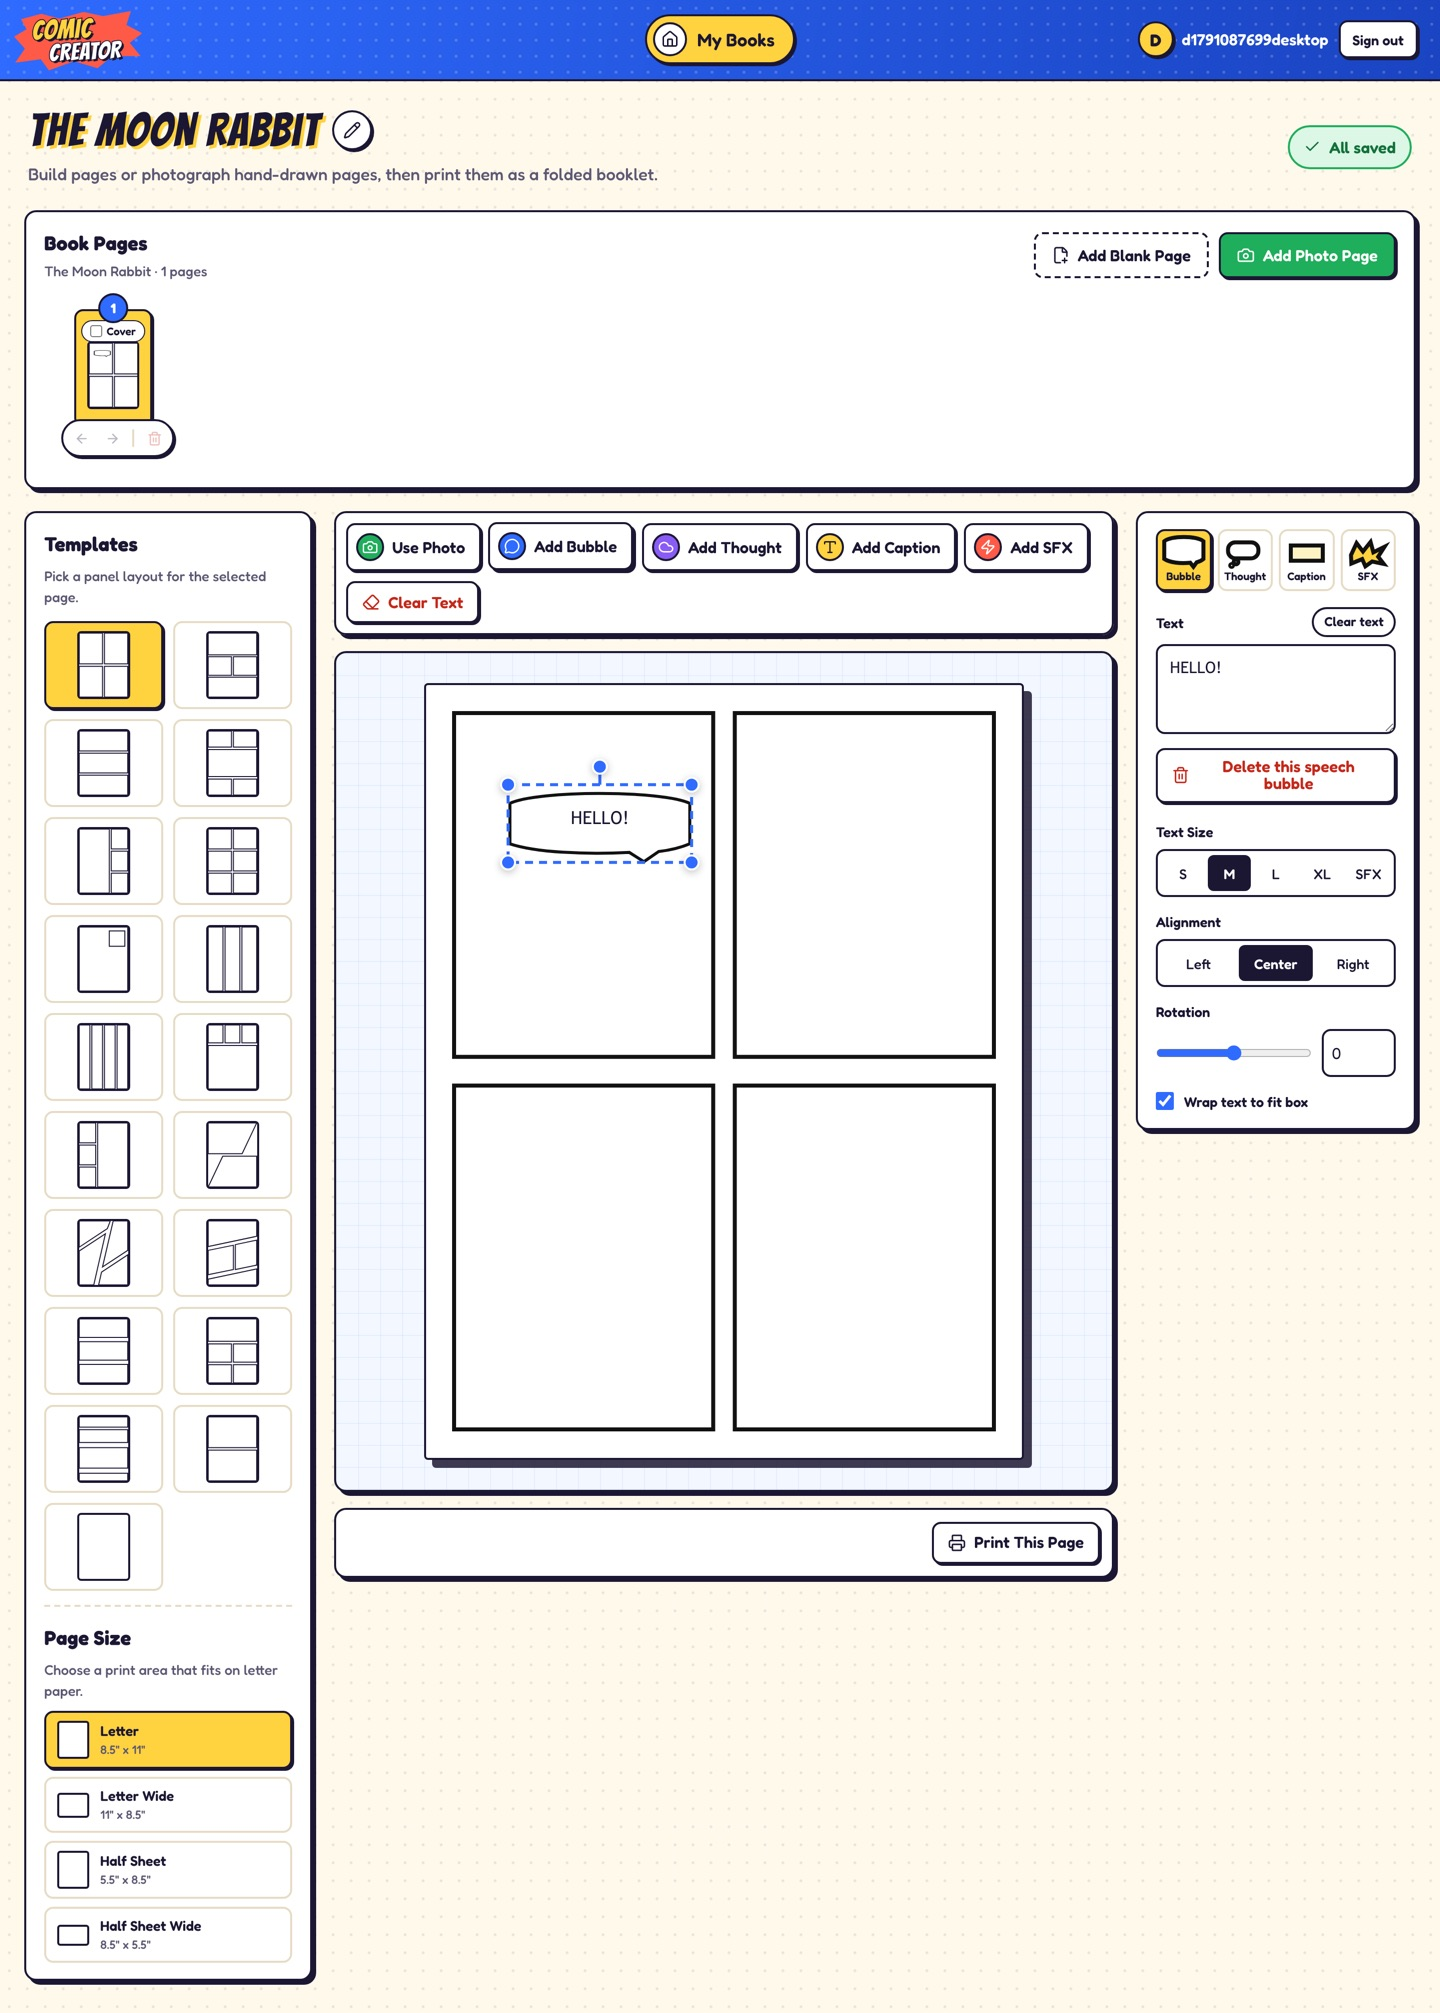
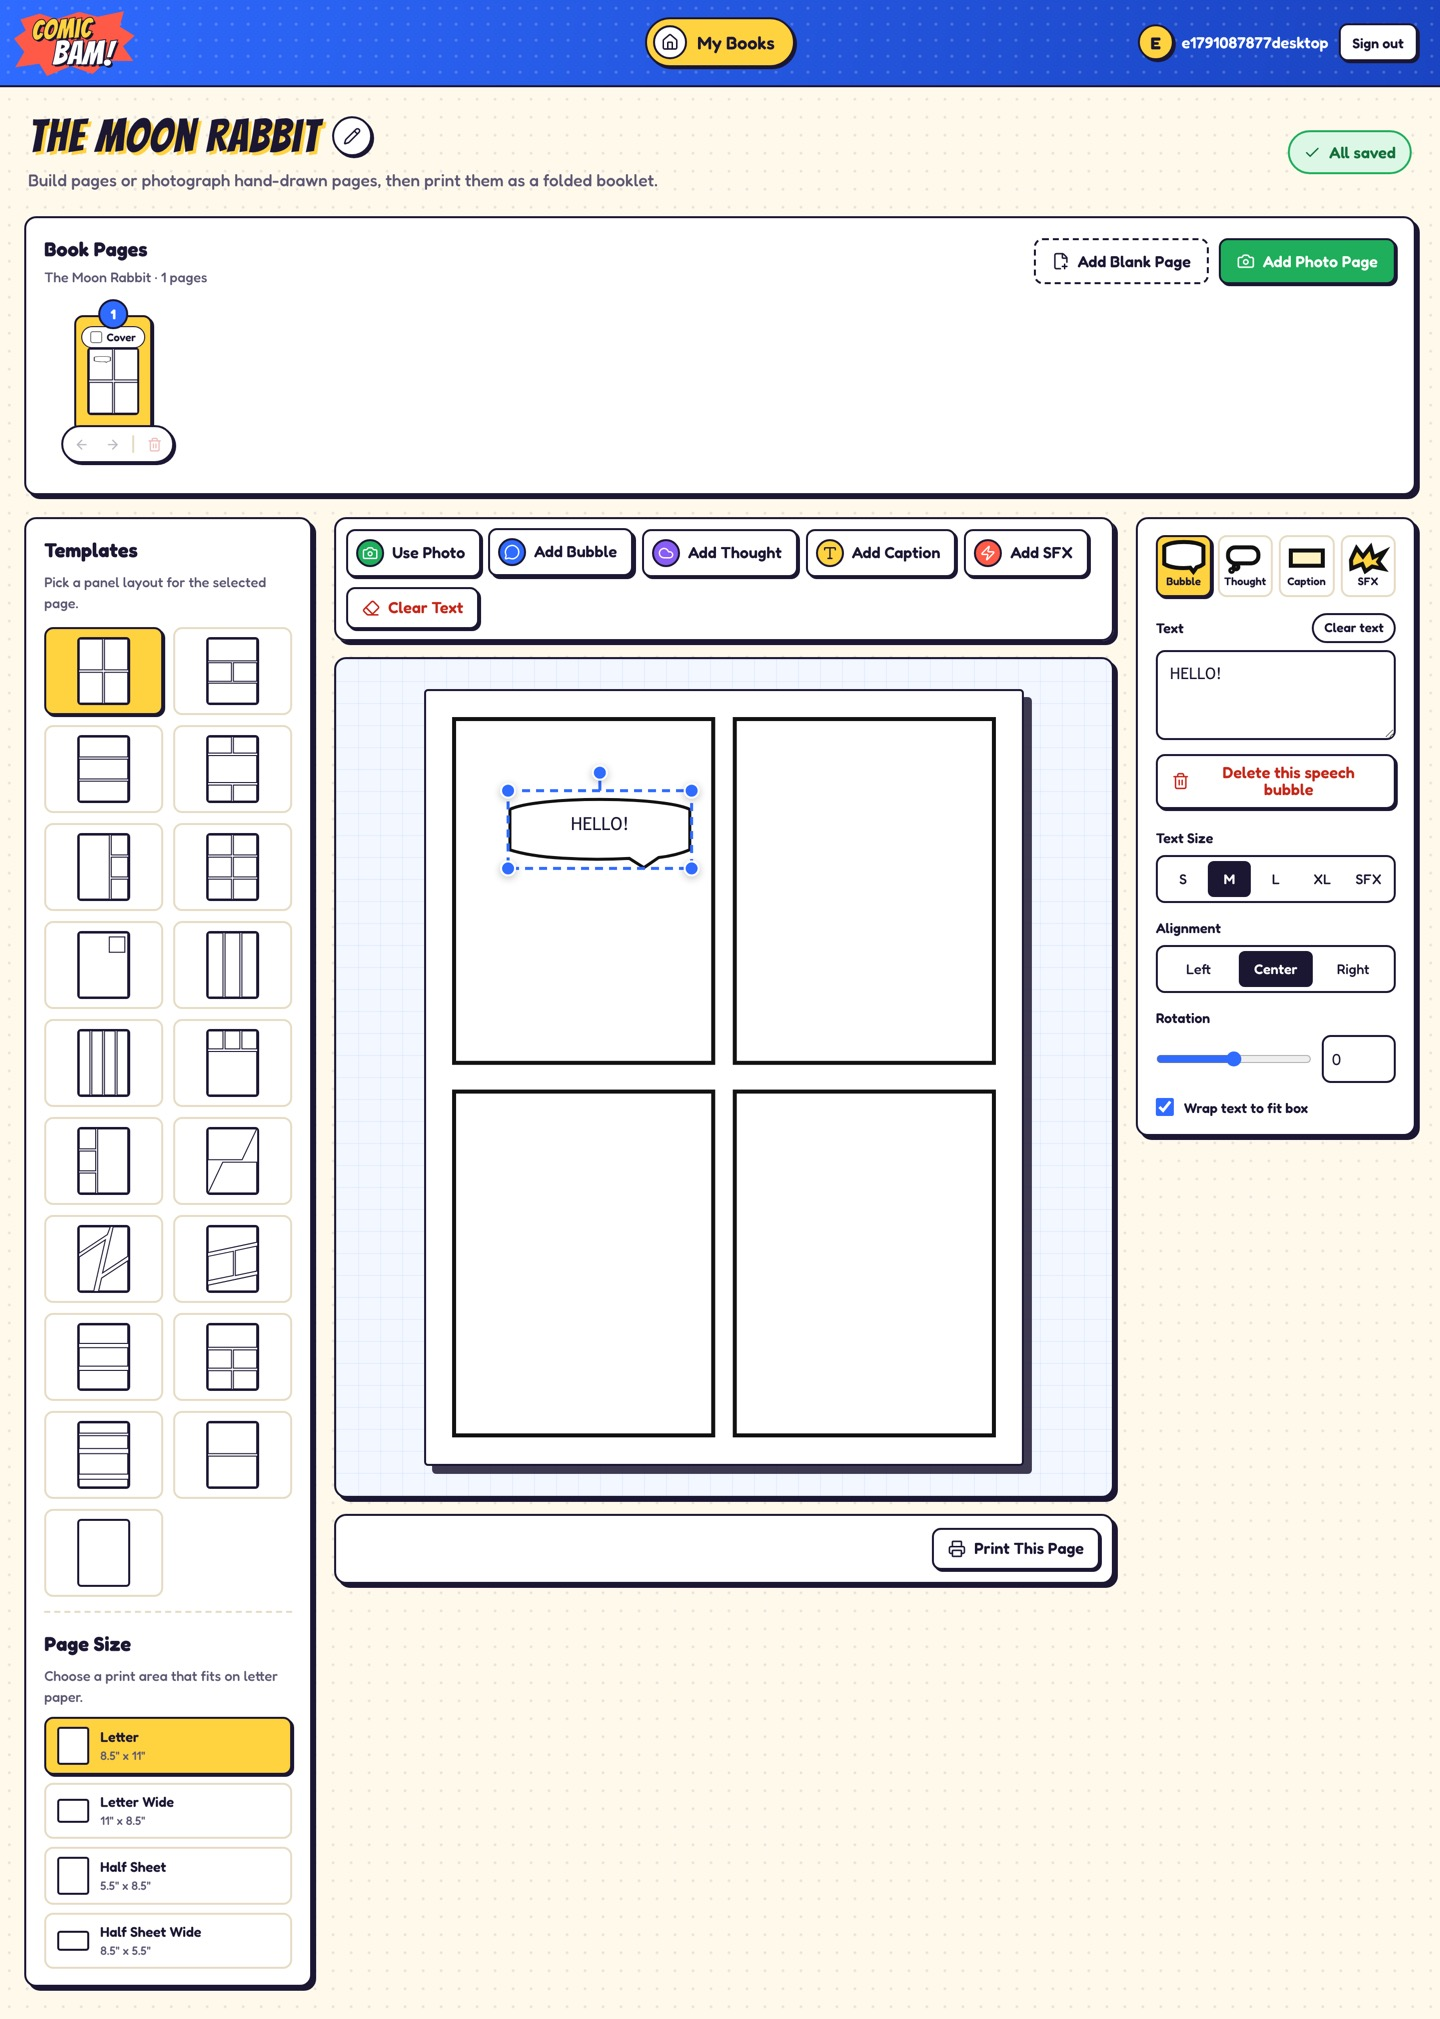
Rename site to ComicBam
Text uses ComicBam (matches comicbam domain); the burst logo stacks COMIC / BAM!.

diff --git a/app/src/components/landing/LandingPage.tsx b/app/src/components/landing/LandingPage.tsx
@@ -64,8 +64,8 @@ export function LandingPage() {
     <main class="comic-landing">
       <div class="landing-shell">
         <header class="landing-header">
-          <A href="/" class="comic-logo compact" aria-label="Comic Book Creator home">
-            <span>Comic</span><strong>Creator</strong>
+          <A href="/" class="comic-logo compact" aria-label="ComicBam home">
+            <span>Comic</span><strong>Bam!</strong>
           </A>
           <nav class="landing-nav" aria-label="Account">
             <A href="/sign-in" class="landing-sign-in">Sign in</A>
@@ -108,7 +108,7 @@ export function LandingPage() {
           <div><h2>Turn one good idea into a book you can hold.</h2></div>
           <A href="/sign-up" class="comic-btn primary">Create account</A>
         </section>
-        <footer class="landing-footer"><span>Comic Book Creator</span><span>Make a story. Build a book. Print it.</span></footer>
+        <footer class="landing-footer"><span>ComicBam</span><span>Make a story. Build a book. Print it.</span></footer>
       </div>
     </main>
   );

diff --git a/app/src/components/comics/ComicAppNav.tsx b/app/src/components/comics/ComicAppNav.tsx
@@ -11,14 +11,14 @@ export function ComicAppNav(props: { account: Account; onBeforeLeave?: (continue
   const submission = useSubmission(signOut);
   return (
     <header class="comic-app-nav" aria-label="App navigation">
-      <A href="/" class="comic-logo compact" aria-label="Comic Book Creator home" onClick={(event) => {
+      <A href="/" class="comic-logo compact" aria-label="ComicBam home" onClick={(event) => {
         if (props.onBeforeLeave && !event.ctrlKey && !event.metaKey && !event.shiftKey && event.button === 0) {
           event.preventDefault();
           const href = event.currentTarget.href;
           props.onBeforeLeave(() => window.location.assign(href));
         }
       }}>
-        <span>Comic</span><strong>Creator</strong>
+        <span>Comic</span><strong>Bam!</strong>
       </A>
       <nav class="comic-nav" aria-label="Comic book navigation">
         <A href="/books" class="active" title="Book index" onClick={(event) => {

diff --git a/app/src/components/comics/comic-base.css b/app/src/components/comics/comic-base.css
@@ -129,10 +129,11 @@
 }
 
 .comic-logo strong {
-  margin-top: 2px;
-  margin-left: 22px;
+  margin-top: 0;
+  margin-left: 30px;
   color: #fff;
-  font-size: 38px;
+  font-size: 54px;
+  transform: rotate(3deg);
 }
 
 .comic-logo.compact {
@@ -153,8 +154,8 @@
 }
 
 .comic-logo.compact strong {
-  margin-left: 16px;
-  font-size: 24px;
+  margin-left: 20px;
+  font-size: 33px;
   -webkit-text-stroke-width: 1.6px;
   text-shadow: 2px 2px 0 var(--comic-ink);
 }
@@ -486,7 +487,7 @@
   }
 
   .comic-app-nav .comic-logo.compact span { font-size: 22px; }
-  .comic-app-nav .comic-logo.compact strong { font-size: 19px; margin-left: 10px; }
+  .comic-app-nav .comic-logo.compact strong { font-size: 27px; margin-left: 14px; }
   .comic-account .comic-sign-out { padding: 5px 9px; }
 
   .comic-topbar {

diff --git a/app/src/components/auth/AccountForm.tsx b/app/src/components/auth/AccountForm.tsx
@@ -15,7 +15,7 @@ export function AccountForm(props: { mode: "sign-in" | "sign-up" }) {
   const created = () => Boolean(submission.result && "accountCreated" in submission.result && submission.result.accountCreated);
   return (
     <main class="account-page">
-      <A href="/" class="comic-logo" aria-label="Comic Book Creator home"><span>Comic</span><strong>Creator</strong></A>
+      <A href="/" class="comic-logo" aria-label="ComicBam home"><span>Comic</span><strong>Bam!</strong></A>
       <section class="account-form-panel" aria-labelledby="account-heading">
         <h1 id="account-heading">{signup() ? "Your stories start here!" : "Welcome back!"}</h1>
         <p>{signup() ? "Create a private library for your comic books." : "Sign in to open your comic books."}</p>

diff --git a/app/src/routes/books/index.tsx b/app/src/routes/books/index.tsx
@@ -9,7 +9,7 @@ export default function LibraryRoute() {
   const account = createAsync(() => getPageAccount(), { deferStream: true });
   const books = createAsync(() => getComicBooks(), { deferStream: true });
   return <Show when={account()}>{(user) => <>
-    <PageMeta title="My Comic Books" description="Your private comic book library." />
+    <PageMeta title="My Comic Books | ComicBam" description="Your private comic book library." />
     <ComicBookIndexPage account={user()} books={books.latest ?? []} />
   </>}</Show>;
 }

diff --git a/app/src/components/landing/landing.css b/app/src/components/landing/landing.css
@@ -119,7 +119,7 @@
   .landing-shell { width: calc(100% - 28px); }
   .landing-header { gap: 10px; }
   .landing-header .comic-logo span { font-size: 23px; }
-  .landing-header .comic-logo strong { font-size: 20px; margin-left: 12px; }
+  .landing-header .comic-logo strong { font-size: 28px; margin-left: 14px; }
   .landing-nav { gap: 10px; }
   .landing-nav .landing-sign-in { font-size: 15px; }
   .landing-nav .comic-btn { padding: 6px 9px; font-size: 14px; }

diff --git a/app/src/routes/sign-up.tsx b/app/src/routes/sign-up.tsx
@@ -2,5 +2,5 @@ import { AccountForm } from "~/components/auth/AccountForm";
 import { PageMeta } from "~/lib/seo";
 
 export default function SignUpRoute() {
-  return <><PageMeta title="Create account | Comic Book Creator" description="Create your private comic book library." /><AccountForm mode="sign-up" /></>;
+  return <><PageMeta title="Create account | ComicBam" description="Create your private comic book library." /><AccountForm mode="sign-up" /></>;
 }

diff --git a/app/src/routes/books/[bookId].tsx b/app/src/routes/books/[bookId].tsx
@@ -19,7 +19,7 @@ export default function ComicBookRoute() {
       {(resolvedBook) => (
         <>
           <PageMeta
-            title={`${resolvedBook().title} | Comic Book Creator`}
+            title={`${resolvedBook().title} | ComicBam`}
             description="Edit panels, text, templates, and print-ready pages for a saved comic book."
           />
           <ComicCreatorApp account={resolvedAccount()} initialBook={resolvedBook()} />

diff --git a/app/src/routes/sign-in.tsx b/app/src/routes/sign-in.tsx
@@ -2,5 +2,5 @@ import { AccountForm } from "~/components/auth/AccountForm";
 import { PageMeta } from "~/lib/seo";
 
 export default function SignInRoute() {
-  return <><PageMeta title="Sign in | Comic Book Creator" description="Sign in to your private comic library." /><AccountForm mode="sign-in" /></>;
+  return <><PageMeta title="Sign in | ComicBam" description="Sign in to your private comic library." /><AccountForm mode="sign-in" /></>;
 }

diff --git a/app/src/components/comics/ComicBookUnavailable.tsx b/app/src/components/comics/ComicBookUnavailable.tsx
@@ -8,7 +8,7 @@ import "./comic-creator.css";
 export function ComicBookUnavailable(props: { account: Account }) {
   return <div class="comic-app">
     <HttpStatusCode code={404} />
-    <PageMeta title="Book not found | Comic Book Creator" />
+    <PageMeta title="Book not found | ComicBam" />
     <ComicAppNav account={props.account} />
     <main class="comic-main">
       <header class="comic-topbar"><div>

diff --git a/app/src/lib/seo.tsx b/app/src/lib/seo.tsx
@@ -3,7 +3,7 @@ import { createRenderEffect } from "solid-js";
 import { isServer } from "solid-js/web";
 import { appPath } from "./router/app-path";
 
-const SITE_NAME = "Comic Book Creator";
+const SITE_NAME = "ComicBam";
 const DEFAULT_DESCRIPTION =
   "Printable comic page creator for planning panels, adding comic text, printing pages, and drawing artwork by hand.";
 

diff --git a/app/src/routes/index.tsx b/app/src/routes/index.tsx
@@ -5,7 +5,7 @@ export default function HomeRoute() {
   return (
     <>
       <PageMeta
-        title="Make a comic book you can print"
+        title="ComicBam | Make a comic book you can print"
         description="Choose page layouts, add words and pictures, then print your comic as pages or a folded booklet."
       />
       <LandingPage />
